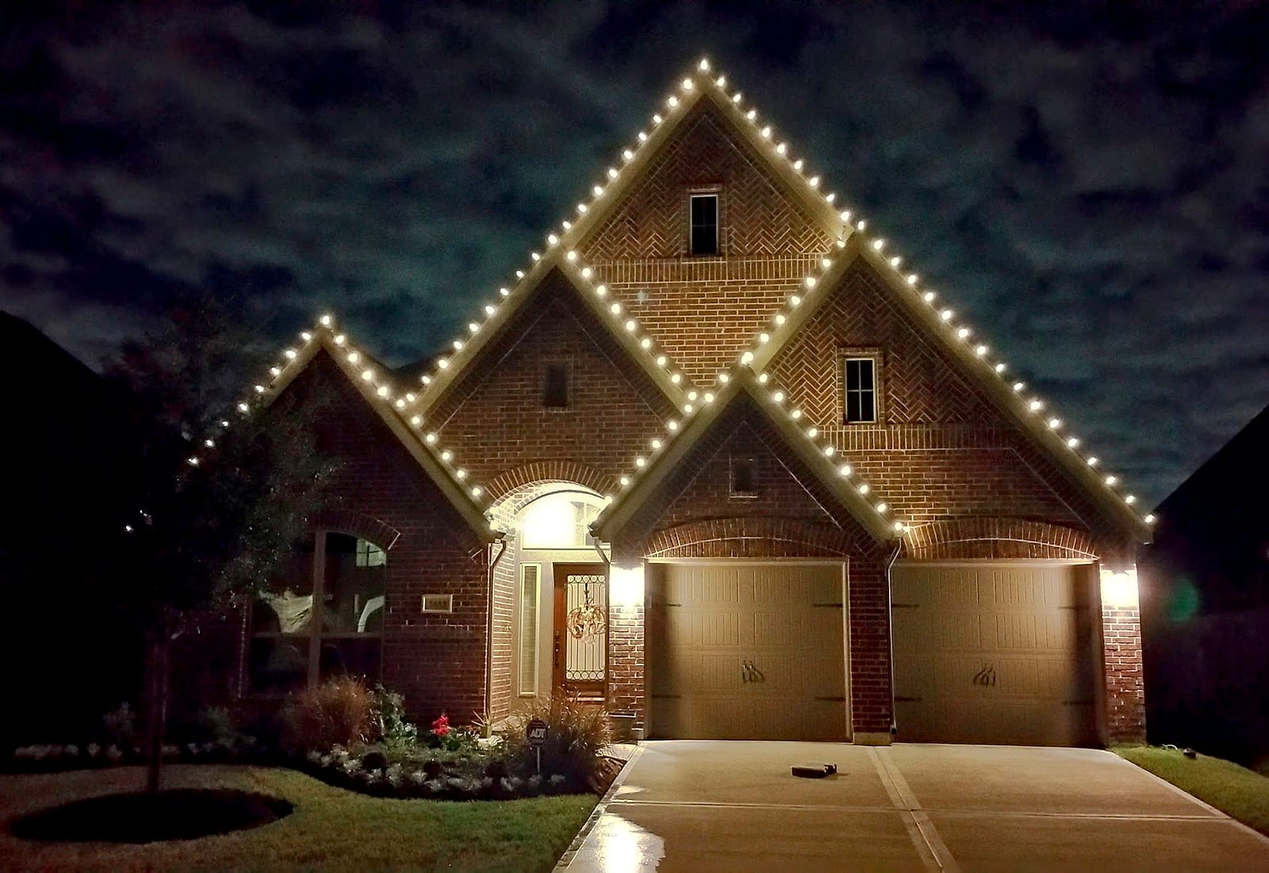
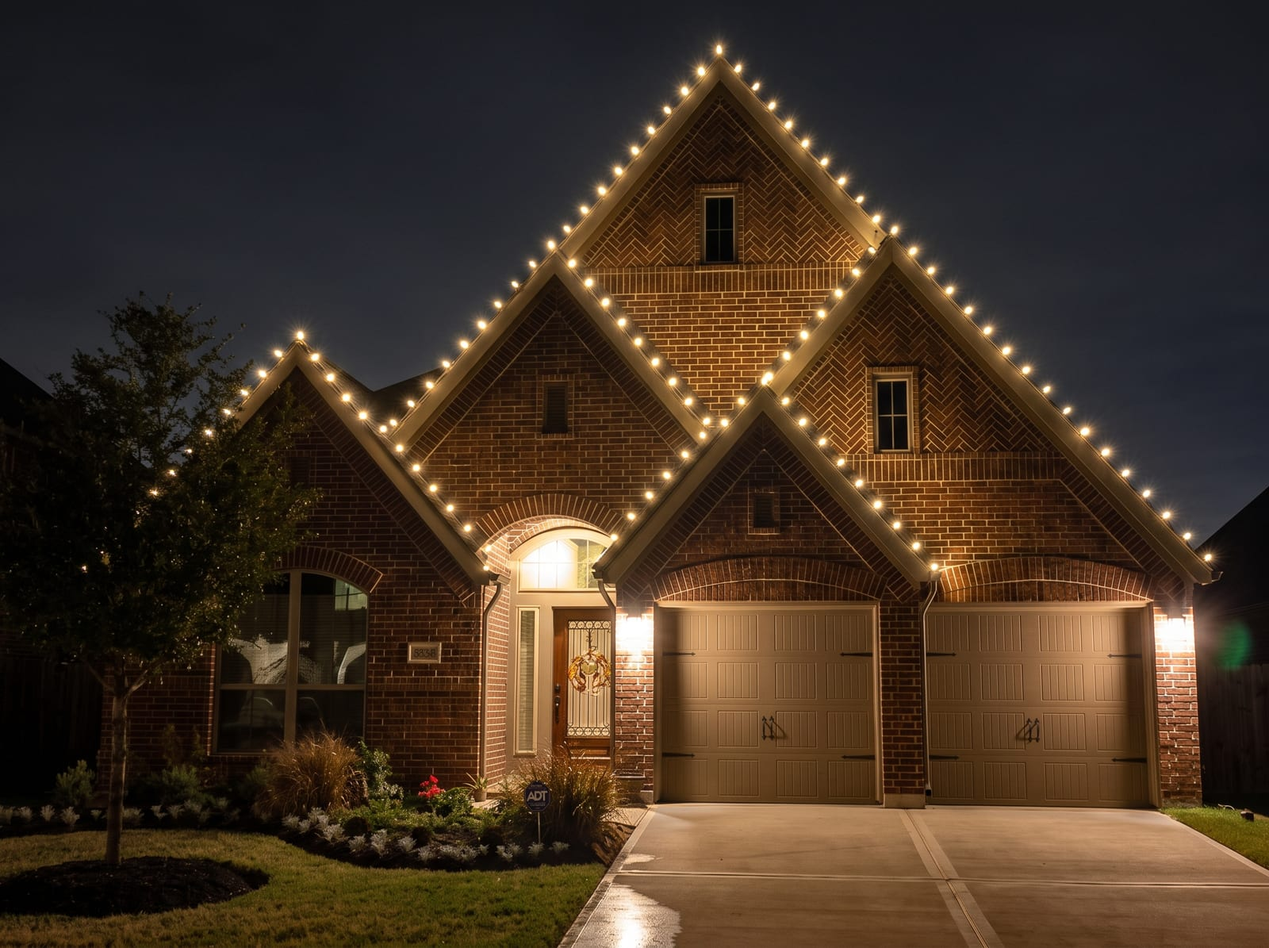
Gallery rebuilt from the owner's hi-res rescans (76 photos, local photos on every area page)
The owner emptied the gallery, rescanned every photo in hi-res and named each
by neighborhood and town. Originals go in the ignored assets-source/gallery-hi-res/;
scripts/process-gallery.mjs makes 1600 px web copies (five typos fixed in the names).
The gallery list takes its places from those names; each area page leads with
five local photos. Old web-size photos removed, except one kept by the owner.

diff --git a/src/data/content.js b/src/data/content.js
@@ -194,45 +194,93 @@ export const testimonials = [
   },
 ]
 
-// Gallery photos. `place` is where the photo was taken, as the owner named it
-// from a numbered contact sheet on 2026-10-13: it is the caption on the area
-// pages and in the lightbox, and every alt text ends with it. Never guess a
-// place from a file name (the pearland-highland-glen-* files are Stonebridge
-// and Cobblestone); a photo without a confirmed place gets its town only.
+// Gallery photos. `place` is where the photo was taken, as the owner named it:
+// the 2026-10-14 rescans carry his own neighborhood-and-town file names, the
+// one older photo was named from a numbered contact sheet on 2026-10-13. It
+// is the caption on the area pages and in the lightbox, and every alt text
+// ends with it. Never guess a place from a camera file name; a photo whose
+// name gives only the town gets the town.
 const photo = (file) => `${base}images/gallery/${file}`
+// The gallery (owner's rescans of 2026-10-14, named by neighborhood and town; web copies made by
+// scripts/process-gallery.mjs). `place` is the owner's own name for each photo; the alt text ends
+// with it (tests/areaPhotos.test.mjs). The first nine show before “Show all”.
 export const gallery = [
-  { src: photo('warm-white-two-story-stone-home.jpg'), place: 'Stonebridge, Pearland', alt: 'Warm white lights tracing every gable, window and the garage of a two-story stone home in Stonebridge, Pearland' },
-  { src: photo('iowa-colony-clear-led-gables.jpg'), place: 'Iowa Colony', alt: 'Clear LED lights outlining three gables on a brick home in Iowa Colony' },
-  { src: photo('estate-wrapped-oaks-gazebo.jpg'), place: 'The Lakefront Preserve, League City', alt: 'Wrapped oak trees, a lit gazebo and pathway lights at the entrance of The Lakefront Preserve, League City' },
-  { src: photo('two-story-wrapped-trees-arched-door.jpg'), place: 'Silverlake, Pearland', alt: 'Two-story home with wrapped trees and a lit arched front door in Silverlake, Pearland' },
-  { src: photo('blue-wrapped-trees-nativity.jpg'), place: 'Cabot Cove, Pearland', alt: 'Blue and multicolor wrapped trees with a lit nativity and roofline in Cabot Cove, Pearland' },
+  { src: photo('shadow-creek-ranch-pearland-02.jpg'), place: 'Shadow Creek Ranch, Pearland', alt: 'Warm white lights outlining the gables, arches and entry of a stone home in Shadow Creek Ranch, Pearland' },
+  { src: photo('lakefront-preserve-league-city-01.jpg'), place: 'The Lakefront Preserve, League City', alt: 'Wrapped oak trees lining the entrance drive of The Lakefront Preserve, League City' },
+  { src: photo('centerpointe-league-city.jpg'), place: 'CenterPointe, League City', alt: 'Warm white lights along the roofline, gables and garage of a home in CenterPointe, League City' },
+  { src: photo('friendswood-lakes-friendswood.jpg'), place: 'Friendswood Lakes, Friendswood', alt: 'Warm white lights outlining the gables and entry of a two-story brick home in Friendswood Lakes, Friendswood' },
+  { src: photo('meridiana-manvel-iowa-colony.jpg'), place: 'Meridiana, Manvel', alt: 'Multicolor lights along the roofline and a wrapped tree in Meridiana, Manvel' },
+  { src: photo('east-beach-galveston.jpg'), place: 'East Beach, Galveston', alt: 'Palm trunks wrapped in red and green lights at East Beach, Galveston' },
+  { src: photo('stonebridge-pearland-04.jpg'), place: 'Stonebridge, Pearland', alt: 'Warm white roofline lights on a two-story brick home at dusk in Stonebridge, Pearland' },
+  { src: photo('victory-lakes-league-city-02.jpg'), place: 'Victory Lakes, League City', alt: 'Warm white lights tracing every gable of a two-story home in Victory Lakes, League City' },
+  { src: photo('nassau-bay-clear-lake-city.jpg'), place: 'Nassau Bay, Clear Lake City', alt: 'Red and white candy-cane roofline lights on a single-story home in Nassau Bay, Clear Lake City' },
+  { src: photo('silverlake-pearland.jpg'), place: 'Silverlake, Pearland', alt: 'Warm white roofline lights and wrapped trees on a two-story home in Silverlake, Pearland' },
+  { src: photo('autumn-creek-friendswood.jpg'), place: 'Autumn Creek, Friendswood', alt: 'Warm white roofline and a wrapped tree beside the garage of a brick home in Autumn Creek, Friendswood' },
+  { src: photo('tightends-league-city-commercial.jpg'), place: 'Tight Ends, League City', alt: 'Red roofline lights on the restaurant building, a commercial install at Tight Ends, League City' },
+  { src: photo('shadow-creek-ranch-pearland.jpg'), place: 'Shadow Creek Ranch, Pearland', alt: 'Warm white roofline lights and lit windows on a two-story home in Shadow Creek Ranch, Pearland' },
+  { src: photo('silverlake-pearland-02.jpg'), place: 'Silverlake, Pearland', alt: 'Warm white roofline lights under a full moon in Silverlake, Pearland' },
+  { src: photo('southern-trails-pearland-christmas-install.jpg'), place: 'Southern Trails, Pearland', alt: 'Warm white roofline lights on a two-story brick home in Southern Trails, Pearland' },
+  { src: photo('southern-trails-pearland-christmas-install-02.jpg'), place: 'Southern Trails, Pearland', alt: 'Warm white lights tracing the gables and garage of a home in Southern Trails, Pearland' },
+  { src: photo('southwyck-pearland.jpg'), place: 'Southwyck, Pearland', alt: 'Warm white roofline lights and lit landscaping on a home in Southwyck, Pearland' },
+  { src: photo('southwyck-pearland-02.jpg'), place: 'Southwyck, Pearland', alt: 'Warm white roofline lights with a wrapped tree on a two-story home in Southwyck, Pearland' },
+  { src: photo('stonebridge-pearland.jpg'), place: 'Stonebridge, Pearland', alt: 'Green lights along the roofline and trees of a home in Stonebridge, Pearland' },
+  { src: photo('stonebridge-pearland-02.jpg'), place: 'Stonebridge, Pearland', alt: 'Warm white roofline lights on a single-story home in Stonebridge, Pearland' },
+  { src: photo('stonebridge-pearland-03.jpg'), place: 'Stonebridge, Pearland', alt: 'Warm white lights on the roofline and entry of a two-story home in Stonebridge, Pearland' },
+  { src: photo('stonebridge-pearland-05.jpg'), place: 'Stonebridge, Pearland', alt: 'Warm white roofline lights with a red and green accent on a brick home in Stonebridge, Pearland' },
+  { src: photo('stonebridge-pearland-06.jpg'), place: 'Stonebridge, Pearland', alt: 'Warm white lights outlining the gables and garage of a home in Stonebridge, Pearland' },
+  { src: photo('stonebridge-pearland-07.jpg'), place: 'Stonebridge, Pearland', alt: 'Warm white roofline lights and a lit walkway in Stonebridge, Pearland' },
+  { src: photo('stonebridge-pearland-08.jpg'), place: 'Stonebridge, Pearland', alt: 'Roofline lights with yard figures and a wreath on a home in Stonebridge, Pearland' },
+  { src: photo('stonebridge-pearland-09.jpg'), place: 'Stonebridge, Pearland', alt: 'Warm white roofline lights on a two-story home with a lit entry in Stonebridge, Pearland' },
+  { src: photo('stonebridge-pearland-10.jpg'), place: 'Stonebridge, Pearland', alt: 'Warm white roofline lights with a wreath over the garage in Stonebridge, Pearland' },
+  { src: photo('stonebridge-pearland-11.jpg'), place: 'Stonebridge, Pearland', alt: 'Multicolor roofline lights on a brick home in Stonebridge, Pearland' },
+  { src: photo('stonebridge-pearland-12.jpg'), place: 'Stonebridge, Pearland', alt: 'Warm white roofline lights on a single-story brick home in Stonebridge, Pearland' },
+  { src: photo('stonebridge-pearland-13.jpg'), place: 'Stonebridge, Pearland', alt: 'Warm white lights along the roofline and garage of a two-story home in Stonebridge, Pearland' },
+  { src: photo('villages-marys-creek-pearland.jpg'), place: 'The Villages of Mary\'s Creek, Pearland', alt: 'Warm white roofline lights and lit shrubs on a two-story home in The Villages of Mary\'s Creek, Pearland' },
+  { src: photo('villages-marys-creek-pearland-02.jpg'), place: 'The Villages of Mary\'s Creek, Pearland', alt: 'Warm white lights outlining the gables of a two-story home in The Villages of Mary\'s Creek, Pearland' },
+  { src: photo('villages-marys-creek-pearland-03.jpg'), place: 'The Villages of Mary\'s Creek, Pearland', alt: 'Warm white roofline lights with a wrapped tree in The Villages of Mary\'s Creek, Pearland' },
+  { src: photo('villages-marys-creek-pearland-04.jpg'), place: 'The Villages of Mary\'s Creek, Pearland', alt: 'Warm white roofline lights on a brick home in The Villages of Mary\'s Creek, Pearland' },
+  { src: photo('villages-marys-creek-pearland-05.jpg'), place: 'The Villages of Mary\'s Creek, Pearland', alt: 'Warm white lights on the roofline and garage of a home in The Villages of Mary\'s Creek, Pearland' },
+  { src: photo('villages-marys-creek-pearland-06.jpg'), place: 'The Villages of Mary\'s Creek, Pearland', alt: 'Warm white roofline lights and a lit entry on a two-story home in The Villages of Mary\'s Creek, Pearland' },
+  { src: photo('cobblestone-pearland.jpg'), place: 'Cobblestone, Pearland', alt: 'Warm white roofline and wrapped trees on a two-story home in Cobblestone, Pearland' },
+  { src: photo('cobblestone-pearland-02.jpg'), place: 'Cobblestone, Pearland', alt: 'Multicolor roofline lights on a brick home in Cobblestone, Pearland' },
+  { src: photo('bakers-landing-pearland.jpg'), place: 'Baker\'s Landing, Pearland', alt: 'Warm white lights tracing the roofline and columns of a brick home in Baker\'s Landing, Pearland' },
+  { src: photo('bakers-landing-pearland-02.jpg'), place: 'Baker\'s Landing, Pearland', alt: 'Warm white roofline lights and a lit walkway at dusk in Baker\'s Landing, Pearland' },
+  { src: photo('cabot-cove-pearland-christmas-installers.jpg'), place: 'Cabot Cove, Pearland', alt: 'Warm white roofline and window lights on a brick home in Cabot Cove, Pearland' },
+  { src: photo('green-tee-terrace-pearland.jpg'), place: 'Green Tee Terrace, Pearland', alt: 'Warm white roofline lights on a single-story home in Green Tee Terrace, Pearland' },
+  { src: photo('pomona-pearland.jpg'), place: 'Pomona, Pearland', alt: 'Warm white lights along the roofline and garage of a home in Pomona, Pearland' },
+  { src: photo('towne-lake-estates-pearland.jpg'), place: 'Towne Lake Estates, Pearland', alt: 'Warm white roofline lights on a single-story home in Towne Lake Estates, Pearland' },
+  { src: photo('lakes-of-highland-glen-pearland.jpg'), place: 'The Lakes of Highland Glen, Pearland', alt: 'Multicolor roofline lights and wrapped trees on a two-story home in The Lakes of Highland Glen, Pearland' },
+  { src: photo('the-lakes-of-highland-glen-pearland-01.jpg'), place: 'The Lakes of Highland Glen, Pearland', alt: 'Warm white roofline lights on a two-story home in The Lakes of Highland Glen, Pearland' },
+  { src: photo('the-lakes-of-highland-glen-pearland-03.jpg'), place: 'The Lakes of Highland Glen, Pearland', alt: 'Blue and white lights on the roofline and shrubs of a home in The Lakes of Highland Glen, Pearland' },
+  { src: photo('preserves-highland-glen-pearland.jpg'), place: 'The Preserve at Highland Glen, Pearland', alt: 'Warm white roofline lights with a green wreath on a brick home in The Preserve at Highland Glen, Pearland' },
+  { src: photo('blue-wrapped-trees-pearland.jpg'), place: 'Pearland', alt: 'Blue wrapped trees and a warm white roofline in Pearland' },
+  { src: photo('kids-r-kids-pearland-commercial.jpg'), place: 'Kids \'R\' Kids, Pearland', alt: 'Commercial roofline lights on the childcare center at Kids \'R\' Kids, Pearland' },
+  { src: photo('west-ranch-friendswood.jpg'), place: 'West Ranch, Friendswood', alt: 'Warm white roofline lights and a lit walkway on a two-story home in West Ranch, Friendswood' },
+  { src: photo('west-ranch-pearland-02.jpg'), place: 'West Ranch, Friendswood', alt: 'Warm white roofline lights on a brick home at dusk in West Ranch, Friendswood' },
+  { src: photo('friendswood-west-ranch.jpg'), place: 'West Ranch, Friendswood', alt: 'Warm white lights outlining the gables and garage of a two-story home in West Ranch, Friendswood' },
+  { src: photo('eagle-lakes-friendswood.jpg'), place: 'Eagle Lakes, Friendswood', alt: 'Warm white roofline lights with a lit entry on a brick home in Eagle Lakes, Friendswood' },
+  { src: photo('lakes-of-friendswood-friendswood.jpg'), place: 'Lakes of Friendswood, Friendswood', alt: 'Warm white roofline lights on a two-story brick home in Lakes of Friendswood, Friendswood' },
+  { src: photo('friendswood-forest-friendswood.jpg'), place: 'The Forest of Friendswood, Friendswood', alt: 'Warm white roofline lights and a lit tree on a two-story home in The Forest of Friendswood, Friendswood' },
+  { src: photo('the-forest-of-friendswood-friendswood.jpg'), place: 'The Forest of Friendswood, Friendswood', alt: 'Green and red lights on the roofline and trees of a home in The Forest of Friendswood, Friendswood' },
   { src: photo('friendswood-warm-white-ivy-home.jpg'), place: 'The Forest of Friendswood, Friendswood', alt: 'Warm white roofline and garden lights on an ivy-covered home in The Forest of Friendswood, Friendswood' },
-  { src: photo('white-stone-two-story-warm-white.jpg'), place: 'Shadow Creek Ranch, Pearland', alt: 'Warm white lights on a two-story stone and brick home in Shadow Creek Ranch, Pearland' },
-  { src: photo('pearland-highland-glen-two-story.jpg'), place: 'Stonebridge, Pearland', alt: 'Warm white lights on a two-story home in Stonebridge, Pearland' },
-  { src: photo('warm-white-roofline-garden-beds.jpg'), place: 'The Lakes of Highland Glen, Pearland', alt: 'Roofline, windows and garden beds outlined in warm white lights in The Lakes of Highland Glen, Pearland' },
-  { src: photo('league-city-commercial-restaurant.jpg'), place: 'Restaurant on the I-45 service road, League City', alt: 'Commercial holiday lighting on a restaurant on the I-45 service road, League City' },
-  { src: photo('pearland-multicolor-led.jpg'), place: 'Cobblestone, Pearland', alt: 'Multicolor LED lights on a home in Cobblestone, Pearland' },
-  { src: photo('pearland-highland-glen-dusk.jpg'), place: 'Stonebridge, Pearland', alt: 'Warm white lights at dusk on a brick home in Stonebridge, Pearland' },
-  { src: photo('warm-white-brick-home-two-car-garage.jpg'), place: 'The Lakes of Highland Glen, Pearland', alt: 'Warm white roofline and ground lights on a brick home with a two-car garage in The Lakes of Highland Glen, Pearland' },
-  { src: photo('warm-white-garage-and-windows.jpg'), place: 'Clear Lake City', alt: 'Lights outlining the garage, windows and roofline of a two-story brick home in Clear Lake City' },
-  { src: photo('warm-white-single-story-home.jpg'), place: 'Victory Lakes, League City', alt: 'Warm white roofline on a single-story brick home in Victory Lakes, League City' },
-  { src: photo('league-city-roofline-and-yard.jpg'), place: 'League City', alt: 'Roofline and yard-edge lights on a home in League City' },
-  { src: photo('pearland-highland-glen-garage.jpg'), place: 'Stonebridge, Pearland', alt: 'Roofline and garage lights in Stonebridge, Pearland' },
-  { src: photo('friendswood-west-ranch.jpg'), place: 'West Ranch, Friendswood', alt: 'Warm white roofline lights in West Ranch, Friendswood' },
-  { src: photo('pearland-red-and-white.jpg'), place: 'Stonebridge, Pearland', alt: 'Red and white lights on a two-story home in Stonebridge, Pearland' },
-  { src: photo('pearland-highland-glen-multicolor.jpg'), place: 'Cobblestone, Pearland', alt: 'Multicolor LED lights in Cobblestone, Pearland' },
-  { src: photo('community-entrance-sign.jpg'), place: 'Towne Lake Estates, Pearland', alt: 'Holiday lighting on the neighborhood entrance sign of Towne Lake Estates, Pearland' },
-  { src: photo('commercial-building-red-lights.jpg'), place: 'Kids R Kids, Pearland', alt: 'Red commercial holiday lights along the roofline of Kids R Kids, Pearland' },
-  { src: photo('pearland-highland-glen-walkway.jpg'), place: 'Stonebridge, Pearland', alt: 'Roofline, wreath and walkway lights in Stonebridge, Pearland' },
-  { src: photo('blue-wrapped-oaks-estate.jpg'), place: 'The Lakefront Preserve, League City', alt: 'Live oaks wrapped in blue lights along the estate drive of The Lakefront Preserve, League City' },
-  { src: photo('nativity-trees-roofline.jpg'), place: 'Cabot Cove, Pearland', alt: 'Roofline, lit shrubs and a nativity scene on a brick home in Cabot Cove, Pearland' },
-  { src: photo('lit-driveway-and-roofline.jpg'), place: 'Westover Park, League City', alt: 'Roofline and lit driveway edges on a single-story home in Westover Park, League City' },
-  { src: photo('twin-gables-under-full-moon.jpg'), place: 'Southwyck, Pearland', alt: 'Twin gables outlined in warm white lights under a full moon in Southwyck, Pearland' },
-  { src: photo('gated-estate-gazebo-lights.jpg'), place: 'The Lakefront Preserve, League City', alt: 'Gated estate entry with a lit gazebo, walls and pathway at The Lakefront Preserve, League City' },
-  { src: photo('wrapped-trees-arched-entry.jpg'), place: 'Green Tee, on the Pearland/Friendswood line', alt: 'Wrapped tree trunks, arched entry and walkway lights at dusk in Green Tee, on the Pearland/Friendswood line' },
-  { src: photo('pink-and-white-roofline.jpg'), place: 'Westover Park, League City', alt: 'Pink and white lights outlining the roofline, arches and garage of a brick home in Westover Park, League City' },
-  { src: photo('multicolor-windows-and-roofline-dusk.jpg'), place: 'League City', alt: 'Multicolor lights framing every window and roofline of a two-story home at dusk in League City' },
-  { src: photo('green-led-two-story-home.jpg'), place: 'The Lakes of Highland Glen, Pearland', alt: 'Green LED lights outlining the gables, windows and garage of a two-story home in The Lakes of Highland Glen, Pearland' },
+  { src: photo('lakefront-preserve-league-city-02.jpg'), place: 'The Lakefront Preserve, League City', alt: 'Wrapped oaks and pathway lights at the entrance of The Lakefront Preserve, League City' },
+  { src: photo('lakefront-preserve-league-city-03.jpg'), place: 'The Lakefront Preserve, League City', alt: 'A lit gazebo and wrapped trees at The Lakefront Preserve, League City' },
+  { src: photo('lakefront-preserve-league-city-04.jpg'), place: 'The Lakefront Preserve, League City', alt: 'Blue-lit trees and the gazebo at night in The Lakefront Preserve, League City' },
+  { src: photo('victory-lakes-league-city.jpg'), place: 'Victory Lakes, League City', alt: 'Warm white roofline lights on a two-story home in Victory Lakes, League City' },
+  { src: photo('victory-lakes-league-city-03.jpg'), place: 'Victory Lakes, League City', alt: 'Warm white lights along the roofline and entry of a brick home in Victory Lakes, League City' },
+  { src: photo('victory-lakes-league-city-04.jpg'), place: 'Victory Lakes, League City', alt: 'Warm white lights outlining every gable, dormer, window and the garage of a two-story stone home in Victory Lakes, League City' },
+  { src: photo('westover-park-league-city.jpg'), place: 'Westover Park, League City', alt: 'Warm white roofline lights on a single-story home in Westover Park, League City' },
+  { src: photo('westland-ranch-league-city.jpg'), place: 'Westland Ranch, League City', alt: 'Warm white roofline lights and a lit garage on a home in Westland Ranch, League City' },
+  { src: photo('edgewater-league-city.jpg'), place: 'Edgewater, League City', alt: 'Warm white roofline lights on a home at dusk in Edgewater, League City' },
+  { src: photo('league-city-christmas-light-install.jpg'), place: 'League City', alt: 'Multicolor roofline lights on a two-story home in League City' },
+  { src: photo('rodeo-palms-manvel.jpg'), place: 'Rodeo Palms, Manvel', alt: 'Roofline lights installed by day on a two-story brick home in Rodeo Palms, Manvel' },
+  { src: photo('northfork-manvel.jpg'), place: 'Northfork, Manvel', alt: 'Warm white roofline lights on a home in Northfork, Manvel' },
+  { src: photo('iowa-colony-clear-led-gables.jpg'), place: 'Iowa Colony', alt: 'Clear LED lights outlining three gables on a brick home in Iowa Colony' },
+  { src: photo('bay-oaks-clear-lake-city.jpg'), place: 'Bay Oaks, Clear Lake City', alt: 'Warm white roofline lights on a two-story home at dusk in Bay Oaks, Clear Lake City' },
+  { src: photo('alvin-christmas-light-install.jpg'), place: 'Alvin', alt: 'Warm white roofline lights with red and green accents on a single-story home in Alvin' },
+  { src: photo('dickinson-christmas-light-install.jpg'), place: 'Dickinson', alt: 'Warm white roofline lights on a single-story home in Dickinson' },
+  { src: photo('santa-fe-christmas-light-install.jpg'), place: 'Santa Fe', alt: 'Warm white roofline lights on a single-story home in Santa Fe' },
+  { src: photo('pasadena-christmas-install.jpg'), place: 'Pasadena', alt: 'Warm white roofline and garage lights on a two-story home in Pasadena' },
 ]
 
 // FAQ, rewritten from scratch with the owner (2026-10-09). Keep answers short

diff --git a/src/data/areas.js b/src/data/areas.js
@@ -21,7 +21,7 @@ export const areas = [
     slug: 'pearland',
     name: 'Pearland',
     towns: ['Pearland', 'Shadow Creek Ranch', 'Silverlake', 'Lakes of Highland Glen', 'Stonebridge', 'Cobblestone', 'Southwyck', 'Cabot Cove', 'Towne Lake Estates', 'Green Tee', 'Brookside Village'],
-    photos: pics('warm-white-two-story-stone-home.jpg', 'white-stone-two-story-warm-white.jpg', 'two-story-wrapped-trees-arched-door.jpg', 'pearland-multicolor-led.jpg', 'community-entrance-sign.jpg'),
+    photos: pics('shadow-creek-ranch-pearland-02.jpg', 'stonebridge-pearland-04.jpg', 'silverlake-pearland.jpg', 'villages-marys-creek-pearland.jpg', 'southern-trails-pearland-christmas-install.jpg'),
     intro: 'Pearland is home. It’s where Christmas Light Creations started in 2011, and more of our customers live here than anywhere else. Many of them have had us back every season for years.',
     local: [
       'Being close means fast help: a bulb out or a tripped GFCI in Pearland is usually fixed the same day, and service calls never cost extra.',
@@ -33,7 +33,7 @@ export const areas = [
     slug: 'league-city',
     name: 'League City',
     towns: ['League City', 'Tuscan Lakes', 'South Shore', 'The Lakefront Preserve', 'Westover Park', 'Victory Lakes'],
-    photos: pics('estate-wrapped-oaks-gazebo.jpg', 'lit-driveway-and-roofline.jpg', 'warm-white-single-story-home.jpg', 'multicolor-windows-and-roofline-dusk.jpg', 'league-city-commercial-restaurant.jpg'),
+    photos: pics('lakefront-preserve-league-city-01.jpg', 'victory-lakes-league-city-02.jpg', 'centerpointe-league-city.jpg', 'westover-park-league-city.jpg', 'tightends-league-city-commercial.jpg'),
     intro: 'League City is one of our busiest areas, full of tall two-story homes where a ladder-free weekend sounds pretty good.',
     local: [
       'Taller rooflines are where a professional install shows: every run is measured with a wheel and custom-fit, so there are no extra strands hanging off the roof.',
@@ -45,8 +45,8 @@ export const areas = [
     slug: 'manvel',
     name: 'Manvel',
     towns: ['Manvel', 'Shadow Creek Ranch (west of 288)', 'Iowa Colony', 'Rosharon'],
-    photos: pics('iowa-colony-clear-led-gables.jpg', 'white-stone-two-story-warm-white.jpg', 'green-led-two-story-home.jpg'),
-    photosNote: 'Iowa Colony and two Pearland installs just across 288, Shadow Creek Ranch and The Lakes of Highland Glen: the same crew, lights and clips come to Manvel.',
+    photos: pics('meridiana-manvel-iowa-colony.jpg', 'rodeo-palms-manvel.jpg', 'northfork-manvel.jpg', 'iowa-colony-clear-led-gables.jpg', 'pomona-pearland.jpg'),
+    photosNote: 'Meridiana, Rodeo Palms, Northfork and Iowa Colony, plus one Pearland install just across 288: the same crew, lights and clips come to Manvel.',
     intro: 'Manvel and the newer neighborhoods west of 288 have grown fast, and so has our customer list there. More Manvel families leave their lights to us every season.',
     local: [
       'New construction often means big, simple rooflines that look sharp with one clean color. Ask about warm white versus multicolor LED at your estimate.',
@@ -58,7 +58,7 @@ export const areas = [
     slug: 'friendswood',
     name: 'Friendswood',
     towns: ['Friendswood', 'West Ranch', 'Sterling Creek', 'The Forest of Friendswood'],
-    photos: pics('friendswood-warm-white-ivy-home.jpg', 'friendswood-west-ranch.jpg', 'wrapped-trees-arched-entry.jpg'),
+    photos: pics('west-ranch-friendswood.jpg', 'friendswood-lakes-friendswood.jpg', 'autumn-creek-friendswood.jpg', 'eagle-lakes-friendswood.jpg', 'the-forest-of-friendswood-friendswood.jpg'),
     intro: 'Friendswood’s tree-lined streets are made for Christmas lights. We light homes from West Ranch to Sterling Creek and the established neighborhoods in between.',
     local: [
       'Mature trees are half the show in Friendswood. We can wrap trunks and light trees and walkways along with the roofline.',
@@ -70,7 +70,7 @@ export const areas = [
     slug: 'clear-lake-bay-area',
     name: 'Clear Lake & the Bay Area',
     towns: ['Clear Lake', 'Webster', 'Seabrook', 'Kemah', 'El Lago', 'Pasadena', 'La Porte', 'Deer Park'],
-    photos: pics('warm-white-garage-and-windows.jpg', 'pink-and-white-roofline.jpg', 'league-city-roofline-and-yard.jpg'),
+    photos: pics('bay-oaks-clear-lake-city.jpg', 'nassau-bay-clear-lake-city.jpg', 'lakefront-preserve-league-city-03.jpg'),
     photosNote: 'Clear Lake City and League City, just down the road: the same crew, lights and clips come to Webster, Seabrook and Kemah.',
     intro: 'From Clear Lake and Webster to Seabrook and Kemah, we light homes all around the bay every season.',
     local: [
@@ -83,8 +83,8 @@ export const areas = [
     slug: 'alvin-galveston-county',
     name: 'Alvin, Santa Fe & Galveston County',
     towns: ['Alvin', 'Santa Fe', 'Texas City', 'La Marque', 'Dickinson', 'Bacliff', 'San Leon', 'Galveston'],
-    photos: pics('twin-gables-under-full-moon.jpg', 'pearland-red-and-white.jpg', 'multicolor-windows-and-roofline-dusk.jpg'),
-    photosNote: 'A few of our installs in Pearland and League City: the same crew, lights and clips come to Alvin, Santa Fe and Galveston County.',
+    photos: pics('alvin-christmas-light-install.jpg', 'santa-fe-christmas-light-install.jpg', 'dickinson-christmas-light-install.jpg', 'east-beach-galveston.jpg', 'league-city-christmas-light-install.jpg'),
+    photosNote: 'Alvin, Santa Fe, Dickinson and Galveston, plus one League City install: the same crew, lights and clips come to the whole county.',
     intro: 'South of Pearland, we light homes from Alvin and Santa Fe down through Texas City, Dickinson, Bacliff, San Leon and Galveston.',
     local: [
       'Farther out doesn’t mean second in line: service calls here are covered just like in Pearland, free, within 48 hours at the most.',

diff --git a/docs/verified.md b/docs/verified.md
@@ -607,3 +607,12 @@ What was actually checked working, and how. Newest first.
 - `npm run check`: lint clean, 478 tests pass (incl. `tests/phoneSignIn.test.mjs`: E.164 keys, `phoneKeys` on proposals/customers, `accountIdentity`, the index queries, the login record and staff line, the chat reply recipient, the screen's words, demo mode), build OK. `functions/index.js` loads (34 exports).
 - Not checked here (needs the Phone provider on and a deploy): a real SMS, a console test number, the invisible reCAPTCHA next to App Check's Enterprise script on the live site, `customerLogins/+1…`. Checklist #141–#145.
 - `npm run test:rules` (emulator, JDK 21): 177/177, incl. the new `phoneCustomer` context (a token with only `phone_number`) refused on every staff collection and on `customerLogins`.
+
+## 2026-10-14 Gallery rebuilt from the owner's hi-res rescans
+
+- The owner emptied `public/images/gallery/`, rescanned every photo and re-added 73 hi-res files (about 3 MB each) named by neighborhood and town, then two more mid-task (`victory-lakes-league-city-04.jpg` new, `iowa-colony-clear-led-gables.jpg` replaced under its old name). All 75 originals copied to the ignored `assets-source/gallery-hi-res/` (234 MB); `node scripts/process-gallery.mjs` wrote 75 web copies at 1600 px / quality 82 plus the one kept older photo: 76 files, 16 MB, none over 600 KB. Five names fixed on the way (`cleark` → `clear`, `friendwood` → `friendswood`, `merdiana` → `meridiana`, two capitalised names lowercased); the folder is cleared first so Windows can't keep the old letter case.
+- `src/data/content.js` `gallery`: 76 entries, `place` from the owner's file names, every alt ends with the place; the first 12 curated (nine show before "Show all"). No old file name left (`grep` of the 29 removed names over `src`, `tests`, `scripts`, `docs`, `index.html`: only the `MAP` record in `scripts/process-photos.mjs`, now marked superseded).
+- Area pages: each of the six leads with five local photos (`src/data/areas.js`); Manvel and Alvin/Galveston County no longer borrow (one filler each, said so in `photosNote`). `dist/` after `npm run build`: 6 area pages, each with its five new photos.
+- `npm run check`: lint clean, 485 tests pass (`tests/areaPhotos.test.mjs` rewritten: list ↔ folder agree, every page's first photo is local, the Highland Glen special case gone), build + prerender + sitemap (11 URLs) fine.
+- Browser pane, `http://localhost:5173/#gallery` at 375 px: the nine thumbnails come from the new files (first `shadow-creek-ranch-pearland-02.jpg`), the button reads "Show all 76 photos", `scrollWidth` 375, console clean; screenshot shows the first three photos rendered.
+- Not checked: the live site after push (photo URLs change, old image URLs 404: nothing links to them but Google Images; the sitemap has no image entries). Owner to confirm two captions: `west-ranch-pearland-02.jpg` is captioned "West Ranch, Friendswood" (West Ranch is in Friendswood; the file says Pearland) and `friendswood-forest-friendswood.jpg` is treated as The Forest of Friendswood.

diff --git a/CLAUDE.md b/CLAUDE.md
@@ -46,7 +46,7 @@ Marketing site for christmas-light-creations.com, a family-owned Christmas light
 - Keep the phone number (281-819-0163) one tap away on every screen.
 - Service areas: `serviceAreaGroups` in content.js and `areaServed` in index.html must match the Google Business Profile's service areas exactly.
 - Don't reword customer reviews; quote them as written.
-- Photo captions and alt texts carry the `place` from the `gallery` list in content.js, as the owner confirmed it (contact sheet, 2026-10-13); never guess a place from a file name. Area pages pick photos by file name in `src/data/areas.js` and take caption and alt from that list; a filler from another town keeps its true caption.
+- Photo captions and alt texts carry the `place` from the `gallery` list in content.js, as the owner named it (his neighborhood-and-town file names on the 2026-10-14 rescans; a contact sheet on 2026-10-13 for the one older photo); never guess a place from a camera file name. Area pages pick photos by file name in `src/data/areas.js` and take caption and alt from that list; a filler from another town keeps its true caption. Hi-res originals live in `assets-source/gallery-hi-res/` (ignored); `scripts/process-gallery.mjs` makes the 1600 px web copies in `public/images/gallery/` (lowercase names, the owner's typos fixed in `FIX`), and `tests/areaPhotos.test.mjs` checks the list and the folder agree. A new photo: drop the original in the hi-res folder, run the script, add its line to `gallery`.
 - IndexNow (spec `docs/specs/indexnow.md`): the key file `public/3bcc247f6ab0920d551117209063808d.txt` (body = its name; public by design) must stay at the site root, and after every Pages deploy the workflow POSTs the sitemap's URLs once to api.indexnow.org (Bing, Yandex, Naver, Seznam; Google ignores IndexNow and reads the sitemap). Best effort, never fails a deploy; no per-page pings from the app.
 - Old WordPress URLs must keep redirecting: the `REDIRECTS` map in `scripts/build-areas.mjs` (21 old pages, from the old site's database). Anything else missing shows `public/404.html` (estimate + call buttons).
 - Estimate form saves to Firestore `leads`; staff read and update them at `/leads/` (Google sign-in, allowlist in the `staff` collection). Access rules live in `firestore.rules`; any new lead field must be added there and in `LEAD_FIELDS` in `src/lib/firebase.js`. With Firebase not configured, the form shows a call button and `/leads/` shows sample data.

diff --git a/docs/decisions.md b/docs/decisions.md
@@ -302,3 +302,4 @@
 | 2026-10-14 | Phone-number sign-in on /account/ through Firebase phone auth (invisible reCAPTCHA, Google sends and checks the code), accounts looked up by `phoneKeys` kept like `emailKeys` and filled lazily (index version 2), sign-ins recorded as `customerLogins/{E.164}`; US numbers only; no lookup before the text goes out (`docs/specs/phone-sign-in.md`) | Owner 2026-10-13 "do 5": many customers from 15 years of records have a phone and no email. Firebase's provider needs no SMS vendor, no code store and no secrets; a "is this number a customer?" check before sending would be the probe the email link avoids. Cost: about $0.01 per US SMS, first 10 a day free; the "10k free a month" tier ended Sept 2024 |
 | 2026-10-14 | A claim follows the conversation, not the clock: covered while the person's messages keep coming no more than an hour apart (6 hours at most); after an hour's quiet the next one needs someone again | Owner: “what happens if they finish talking and a new text comes two hours later?” With a flat 6-hour window it would have gone un-nudged |
 | 2026-10-14 | Envato Elements subscription for music, SFX, motion graphics, stock video, icons and fonts; rules and workflow in `assets-source/envato/README.md` (one download per named project, raw files ignored by git, never a logo, no broadcast music) | Owner: Uppbeat's selection was lacking; Elements covers ads, site graphics and print in one subscription. No public API for subscriber downloads, so it's a by-hand download into the ignored folder |
+| 2026-10-14 | Gallery rebuilt from the owner's hi-res rescans: 75 originals in ignored `assets-source/gallery-hi-res/` → 1600 px web copies by `scripts/process-gallery.mjs` (76 photos: one older web-size photo kept, every other 2026-10-08 photo dropped); places and captions from the owner's own neighborhood file names (five typos fixed in the URLs); every area page leads with five local photos, Manvel and Alvin/Galveston County included | Owner rescanned and renamed every photo himself ("removed every photo, rescanned to create hi-res images and re-added them plus a bunch more"): sharper photos, honest local captions, no guessed places |
